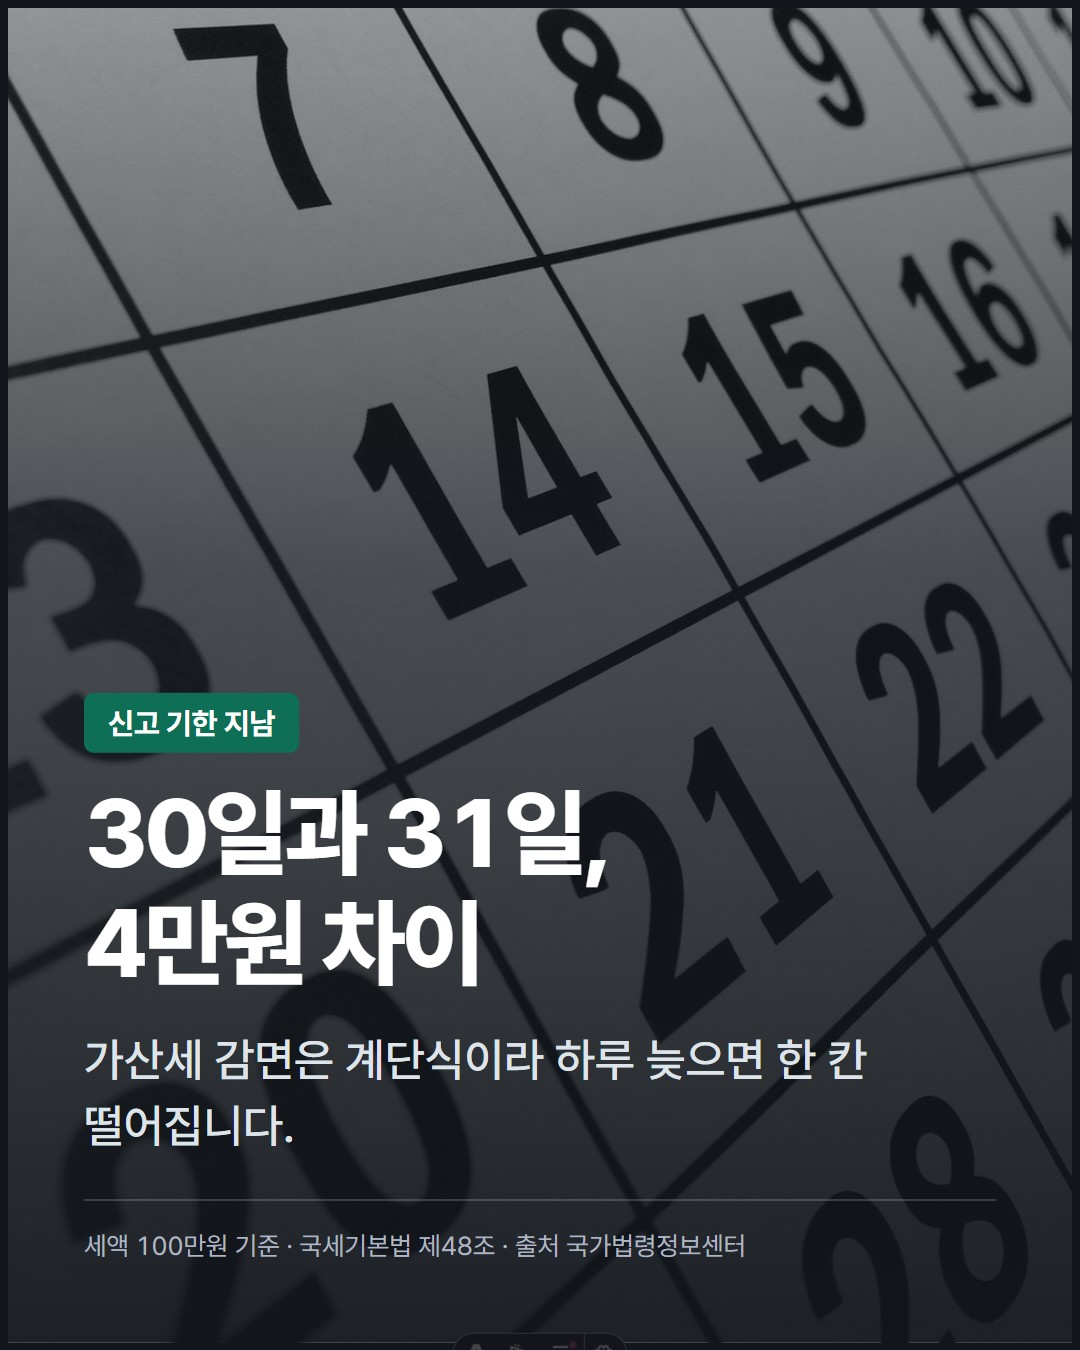
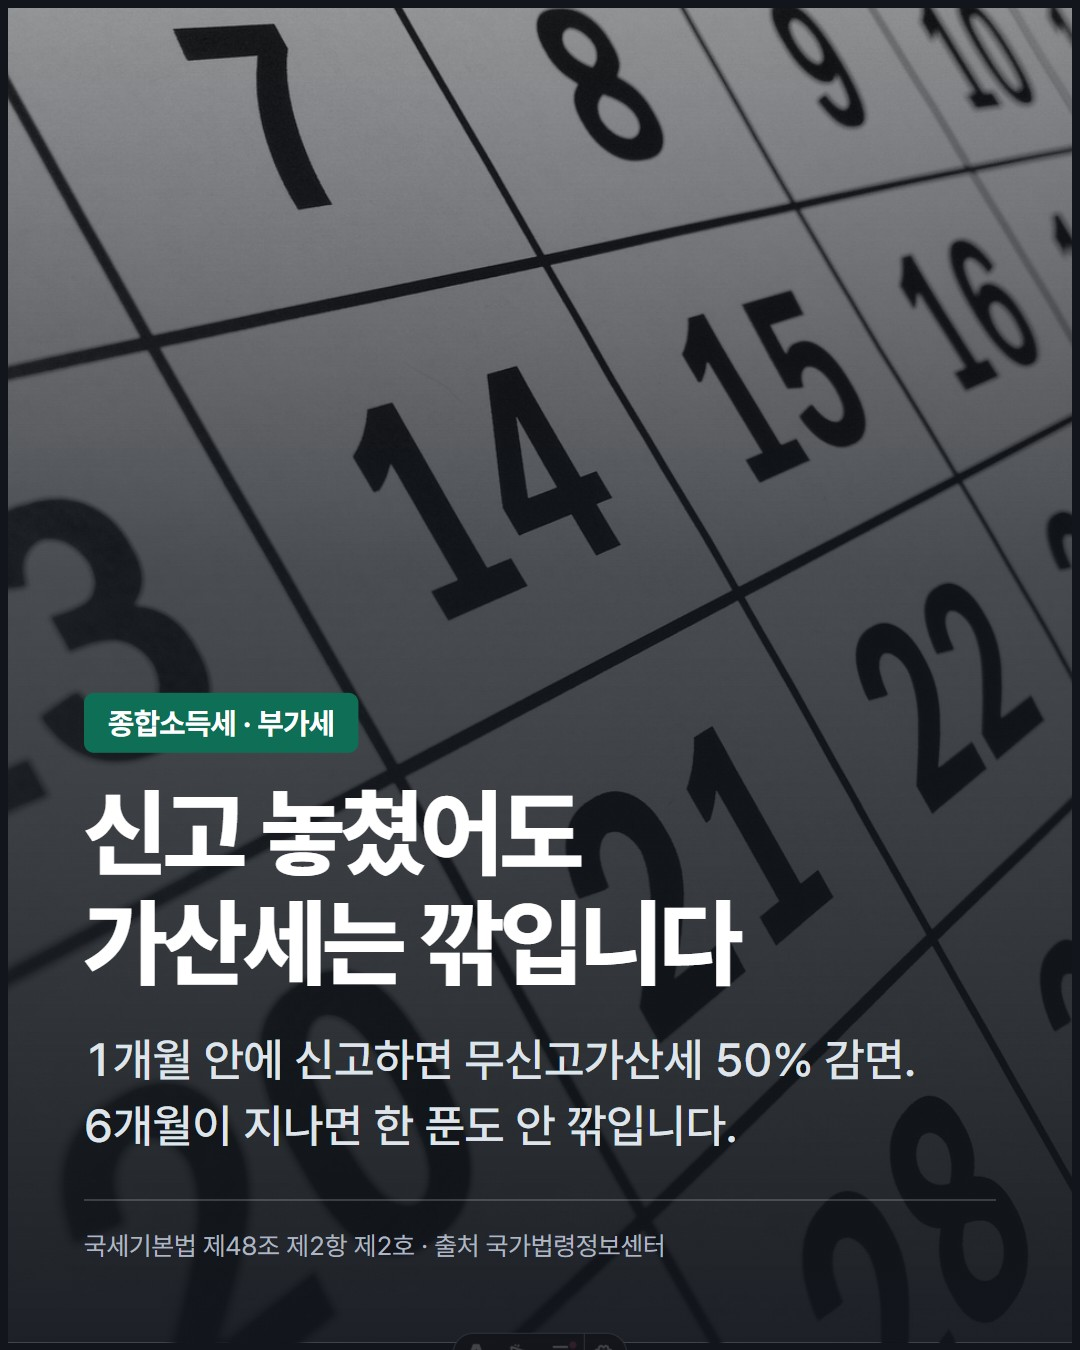
content: 표지를 다시 씀 — 주제를 세우고 놓치는 쪽을 말한다
"30일과 31일, 4만원 차이" 는 무엇에 대한 얘기인지가 없었다. 세금인지
구독료인지 알 수 없고, 첫 장에서 주제가 안 잡히면 넘어가지 않는다.

  뱃지  종합소득세 · 부가세      ← 무슨 얘기인지 0.5초에
  제목  신고 놓쳤어도 가산세는 깎입니다
  부제  1개월 안에 신고하면 무신고가산세 50% 감면.
        6개월이 지나면 한 푼도 안 깎입니다.

기한을 놓친 사람은 대개 이미 늦었다고 생각해 더 미룬다. 실제로 잃는
것은 세금이 아니라 감면 기한이다 — 그 기한이 지나간다는 것이 이 카드를
보지 않으면 손해인 이유다.

부제에 "무신고가산세" 를 명시했다. 그냥 "가산세 50% 감면" 이라고 하면
납부지연가산세까지 깎이는 것으로 읽히는데, 그건 사실이 아니다(4번 카드가
짚는 지점).

Changed region(s): [[0.0611, 0.5911, 0.8556, 0.8711], [0.0611, 0.9022, 0.7028, 0.9333], [0.0917, 0.4978, 0.3361, 0.56]]

diff --git a/src/data/cards.ts b/src/data/cards.ts
@@ -207,10 +207,10 @@ export const cardSets: CardSet[] = [
         kind: "cover",
         photo: "/photos/card-calendar.jpg",
         photoAlt: "달력의 날짜 숫자 클로즈업",
-        badge: "신고 기한 지남",
-        title: "30일과 31일,\n4만원 차이",
-        sub: "가산세 감면은 계단식이라 하루 늦으면 한 칸 떨어집니다.",
-        footnote: "세액 100만원 기준 · 국세기본법 제48조 · 출처 국가법령정보센터",
+        badge: "종합소득세 · 부가세",
+        title: "신고 놓쳤어도\n가산세는 깎입니다",
+        sub: "1개월 안에 신고하면 무신고가산세 50% 감면. 6개월이 지나면 한 푼도 안 깎입니다.",
+        footnote: "국세기본법 제48조 제2항 제2호 · 출처 국가법령정보센터",
       },
       {
         kind: "table",
